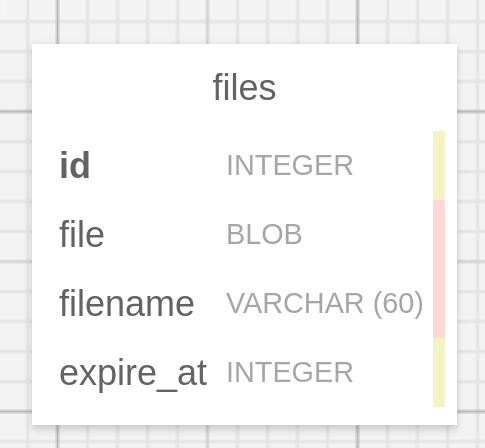
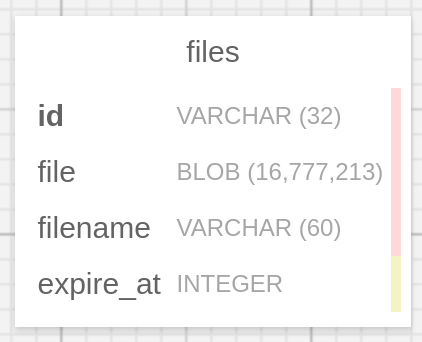
fix: changed File file datatype to MediumBlob

diff --git a/migrations/versions/2aec1333954f_changed_file_file.py b/migrations/versions/2aec1333954f_changed_file_file.py
@@ -1,0 +1,28 @@
+"""Changed File file 
+
+Revision ID: 2aec1333954f
+Revises: 42535c6e4ab1
+Create Date: 2020-07-19 10:50:17.855411
+
+"""
+from alembic import op
+import sqlalchemy as sa
+
+
+# revision identifiers, used by Alembic.
+revision = '2aec1333954f'
+down_revision = '42535c6e4ab1'
+branch_labels = None
+depends_on = None
+
+
+def upgrade():
+    # ### commands auto generated by Alembic - please adjust! ###
+    op.add_column('files', sa.Column('file', sa.LargeBinary(length=16777215), nullable=True))
+    # ### end Alembic commands ###
+
+
+def downgrade():
+    # ### commands auto generated by Alembic - please adjust! ###
+    op.drop_column('files', 'file')
+    # ### end Alembic commands ###

diff --git a/migrations/versions/7ea710fe5e78_changed_file_file.py b/migrations/versions/7ea710fe5e78_changed_file_file.py
@@ -1,0 +1,28 @@
+"""Changed File file 
+
+Revision ID: 7ea710fe5e78
+Revises: 22627e9d9e06
+Create Date: 2020-07-19 10:45:39.859518
+
+"""
+from alembic import op
+import sqlalchemy as sa
+
+
+# revision identifiers, used by Alembic.
+revision = '7ea710fe5e78'
+down_revision = '22627e9d9e06'
+branch_labels = None
+depends_on = None
+
+
+def upgrade():
+    # ### commands auto generated by Alembic - please adjust! ###
+    op.add_column('files', sa.Column('file', sa.LargeBinary(), nullable=True))
+    # ### end Alembic commands ###
+
+
+def downgrade():
+    # ### commands auto generated by Alembic - please adjust! ###
+    op.drop_column('files', 'file')
+    # ### end Alembic commands ###

diff --git a/migrations/versions/22627e9d9e06_changed_file_file.py b/migrations/versions/22627e9d9e06_changed_file_file.py
@@ -1,0 +1,28 @@
+"""Changed File file 
+
+Revision ID: 22627e9d9e06
+Revises: f459f947512b
+Create Date: 2020-07-19 10:42:44.902706
+
+"""
+from alembic import op
+import sqlalchemy as sa
+
+
+# revision identifiers, used by Alembic.
+revision = '22627e9d9e06'
+down_revision = 'f459f947512b'
+branch_labels = None
+depends_on = None
+
+
+def upgrade():
+    # ### commands auto generated by Alembic - please adjust! ###
+    op.drop_column('files', 'file')
+    # ### end Alembic commands ###
+
+
+def downgrade():
+    # ### commands auto generated by Alembic - please adjust! ###
+    op.add_column('files', sa.Column('file', sa.BLOB(), nullable=True))
+    # ### end Alembic commands ###

diff --git a/migrations/versions/42535c6e4ab1_changed_file_file.py b/migrations/versions/42535c6e4ab1_changed_file_file.py
@@ -1,0 +1,28 @@
+"""Changed File file 
+
+Revision ID: 42535c6e4ab1
+Revises: 7ea710fe5e78
+Create Date: 2020-07-19 10:47:46.796511
+
+"""
+from alembic import op
+import sqlalchemy as sa
+
+
+# revision identifiers, used by Alembic.
+revision = '42535c6e4ab1'
+down_revision = '7ea710fe5e78'
+branch_labels = None
+depends_on = None
+
+
+def upgrade():
+    # ### commands auto generated by Alembic - please adjust! ###
+    op.drop_column('files', 'file')
+    # ### end Alembic commands ###
+
+
+def downgrade():
+    # ### commands auto generated by Alembic - please adjust! ###
+    op.add_column('files', sa.Column('file', sa.BLOB(), nullable=True))
+    # ### end Alembic commands ###

diff --git a/app/database/models.py b/app/database/models.py
@@ -5,6 +5,6 @@ class File(db.Model):
     __tablename__ = "files"
 
     id = db.Column(db.String(32), primary_key=True)
-    file = db.Column(db.BLOB)
+    file = db.Column(db.LargeBinary(2**24 - 1))
     filename = db.Column(db.String(60))
     expire_at = db.Column(db.Integer)

diff --git a/README.md b/README.md
@@ -1,6 +1,6 @@
 # FileSharing
 
-### Max file size that can be hosted is 64 kb
+### Max file size that can be hosted is 16 mb
 
 ## Database schema
 ![](img/file_sharing_db.png)
